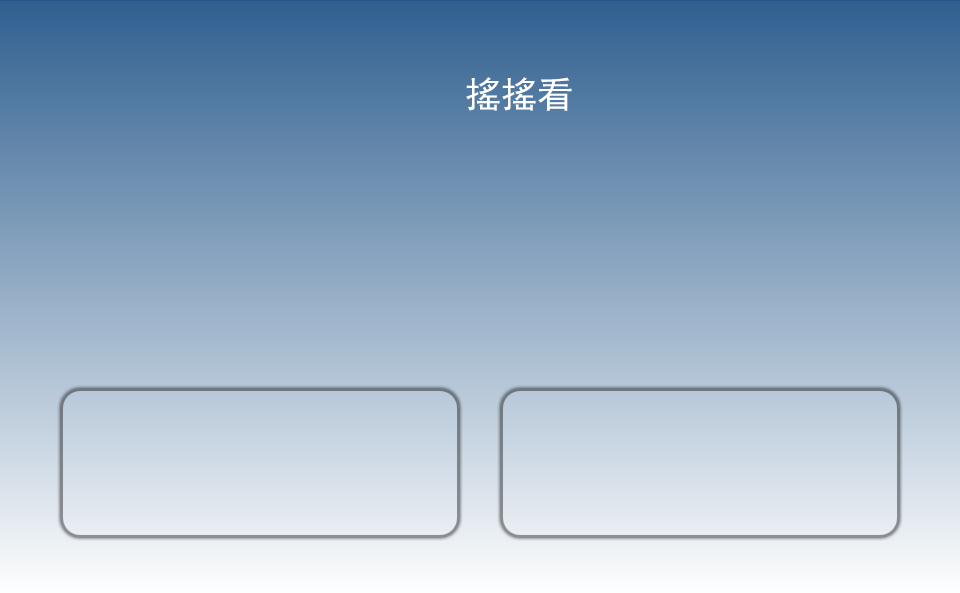
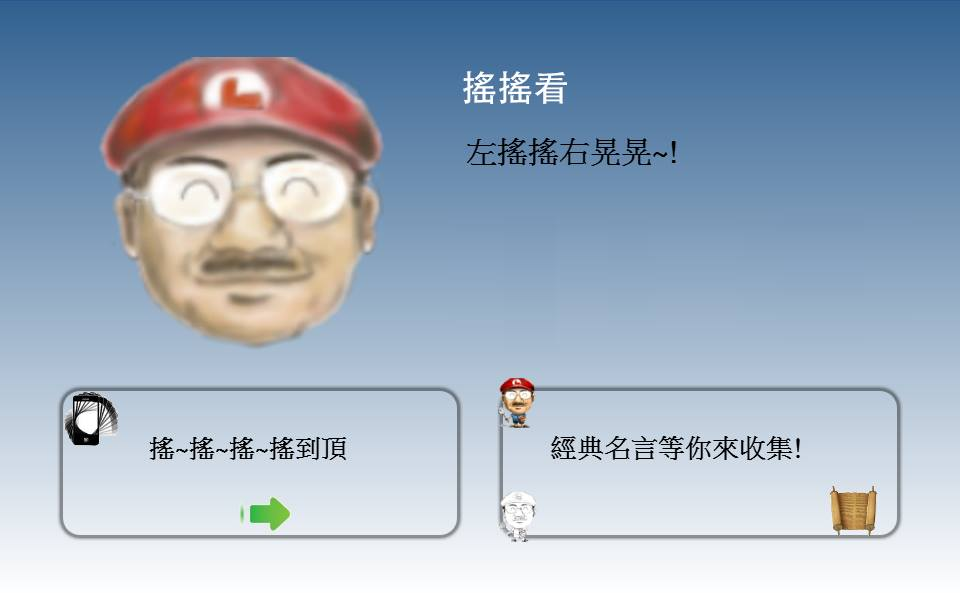
remove shakeNread English version and add images

diff --git a/tw/index.html b/tw/index.html
@@ -51,6 +51,7 @@
         <a href="Now+SMS.html"><img src="images/adNow+SMS.png" data-thumb="images/adNow+SMS.png" alt="" /></a>
         <a href="DeliveringBabies.html"><img src="images/adDeliveringBabies.png" data-thumb="images/adDeliveringBabies.png" alt="" /></a>
         <a href="FaceLine.html"><img src="images/adFaceLine.png" data-thumb="images/adFaceLine.png" alt="" /></a>
+        <a href="shakeNread.html"><img src="images/adshakeNread.png" data-thumb="images/adshakeNread.png" alt="" /></a>
       </div>
     </div>
   </div>

diff --git a/en/About.html b/en/About.html
@@ -35,7 +35,6 @@
               <li><a href="Now+SMS.html">Now+SMS</a></li>
               <li><a href="DeliveringBabies.html">Delivering Babies</a></li>
               <li><a href="FaceLine.html">Face Line</a></li>
-              <li><a href="shakeNread.html">shakeNread</a></li>
             </ul></li>
           <li><a href="javascript:;">Webs</a></li>
         </ul>

diff --git a/en/Contact.html b/en/Contact.html
@@ -35,7 +35,6 @@
               <li><a href="Now+SMS.html">Now+SMS</a></li>
               <li><a href="DeliveringBabies.html">Delivering Babies</a></li>
               <li><a href="FaceLine.html">Face Line</a></li>
-              <li><a href="shakeNread.html">shakeNread</a></li>
             </ul></li>
           <li><a href="javascript:;">Webs</a></li>
         </ul>

diff --git a/en/DeliveringBabies.html b/en/DeliveringBabies.html
@@ -35,7 +35,6 @@
               <li><a href="Now+SMS.html">Now+SMS</a></li>
               <li><a href="DeliveringBabies.html">Delivering Babies</a></li>
               <li><a href="FaceLine.html">Face Line</a></li>
-              <li><a href="shakeNread.html">shakeNread</a></li>
             </ul></li>
           <li><a href="javascript:;">Webs</a></li>
         </ul>

diff --git a/en/FaceLine.html b/en/FaceLine.html
@@ -35,7 +35,6 @@
               <li><a href="Now+SMS.html">Now+SMS</a></li>
               <li><a href="DeliveringBabies.html">Delivering Babies</a></li>
               <li><a href="FaceLine.html">Face Line</a></li>
-              <li><a href="shakeNread.html">shakeNread</a></li>
             </ul></li>
           <li><a href="javascript:;">Webs</a></li>
         </ul>

diff --git a/en/News.html b/en/News.html
@@ -35,7 +35,6 @@
               <li><a href="Now+SMS.html">Now+SMS</a></li>
               <li><a href="DeliveringBabies.html">Delivering Babies</a></li>
               <li><a href="FaceLine.html">Face Line</a></li>
-              <li><a href="shakeNread.html">shakeNread</a></li>
             </ul></li>
           <li><a href="javascript:;">Webs</a></li>
         </ul>

diff --git a/en/Now+SMS.html b/en/Now+SMS.html
@@ -35,7 +35,6 @@
               <li><a href="Now+SMS.html">Now+SMS</a></li>
               <li><a href="DeliveringBabies.html">Delivering Babies</a></li>
               <li><a href="FaceLine.html">Face Line</a></li>
-              <li><a href="shakeNread.html">shakeNread</a></li>
             </ul></li>
           <li><a href="javascript:;">Webs</a></li>
         </ul>

diff --git a/en/ToSort.html b/en/ToSort.html
@@ -35,7 +35,6 @@
               <li><a href="Now+SMS.html">Now+SMS</a></li>
               <li><a href="DeliveringBabies.html">Delivering Babies</a></li>
               <li><a href="FaceLine.html">Face Line</a></li>
-              <li><a href="shakeNread.html">shakeNread</a></li>
             </ul></li>
           <li><a href="javascript:;">Webs</a></li>
         </ul>

diff --git a/en/index.html b/en/index.html
@@ -35,7 +35,6 @@
               <li><a href="Now+SMS.html">Now+SMS</a></li>
               <li><a href="DeliveringBabies.html">Delivering Babies</a></li>
               <li><a href="FaceLine.html">Face Line</a></li>
-              <li><a href="shakeNread.html">shakeNread</a></li>
             </ul></li>
           <li><a href="javascript:;">Webs</a></li>
         </ul>
